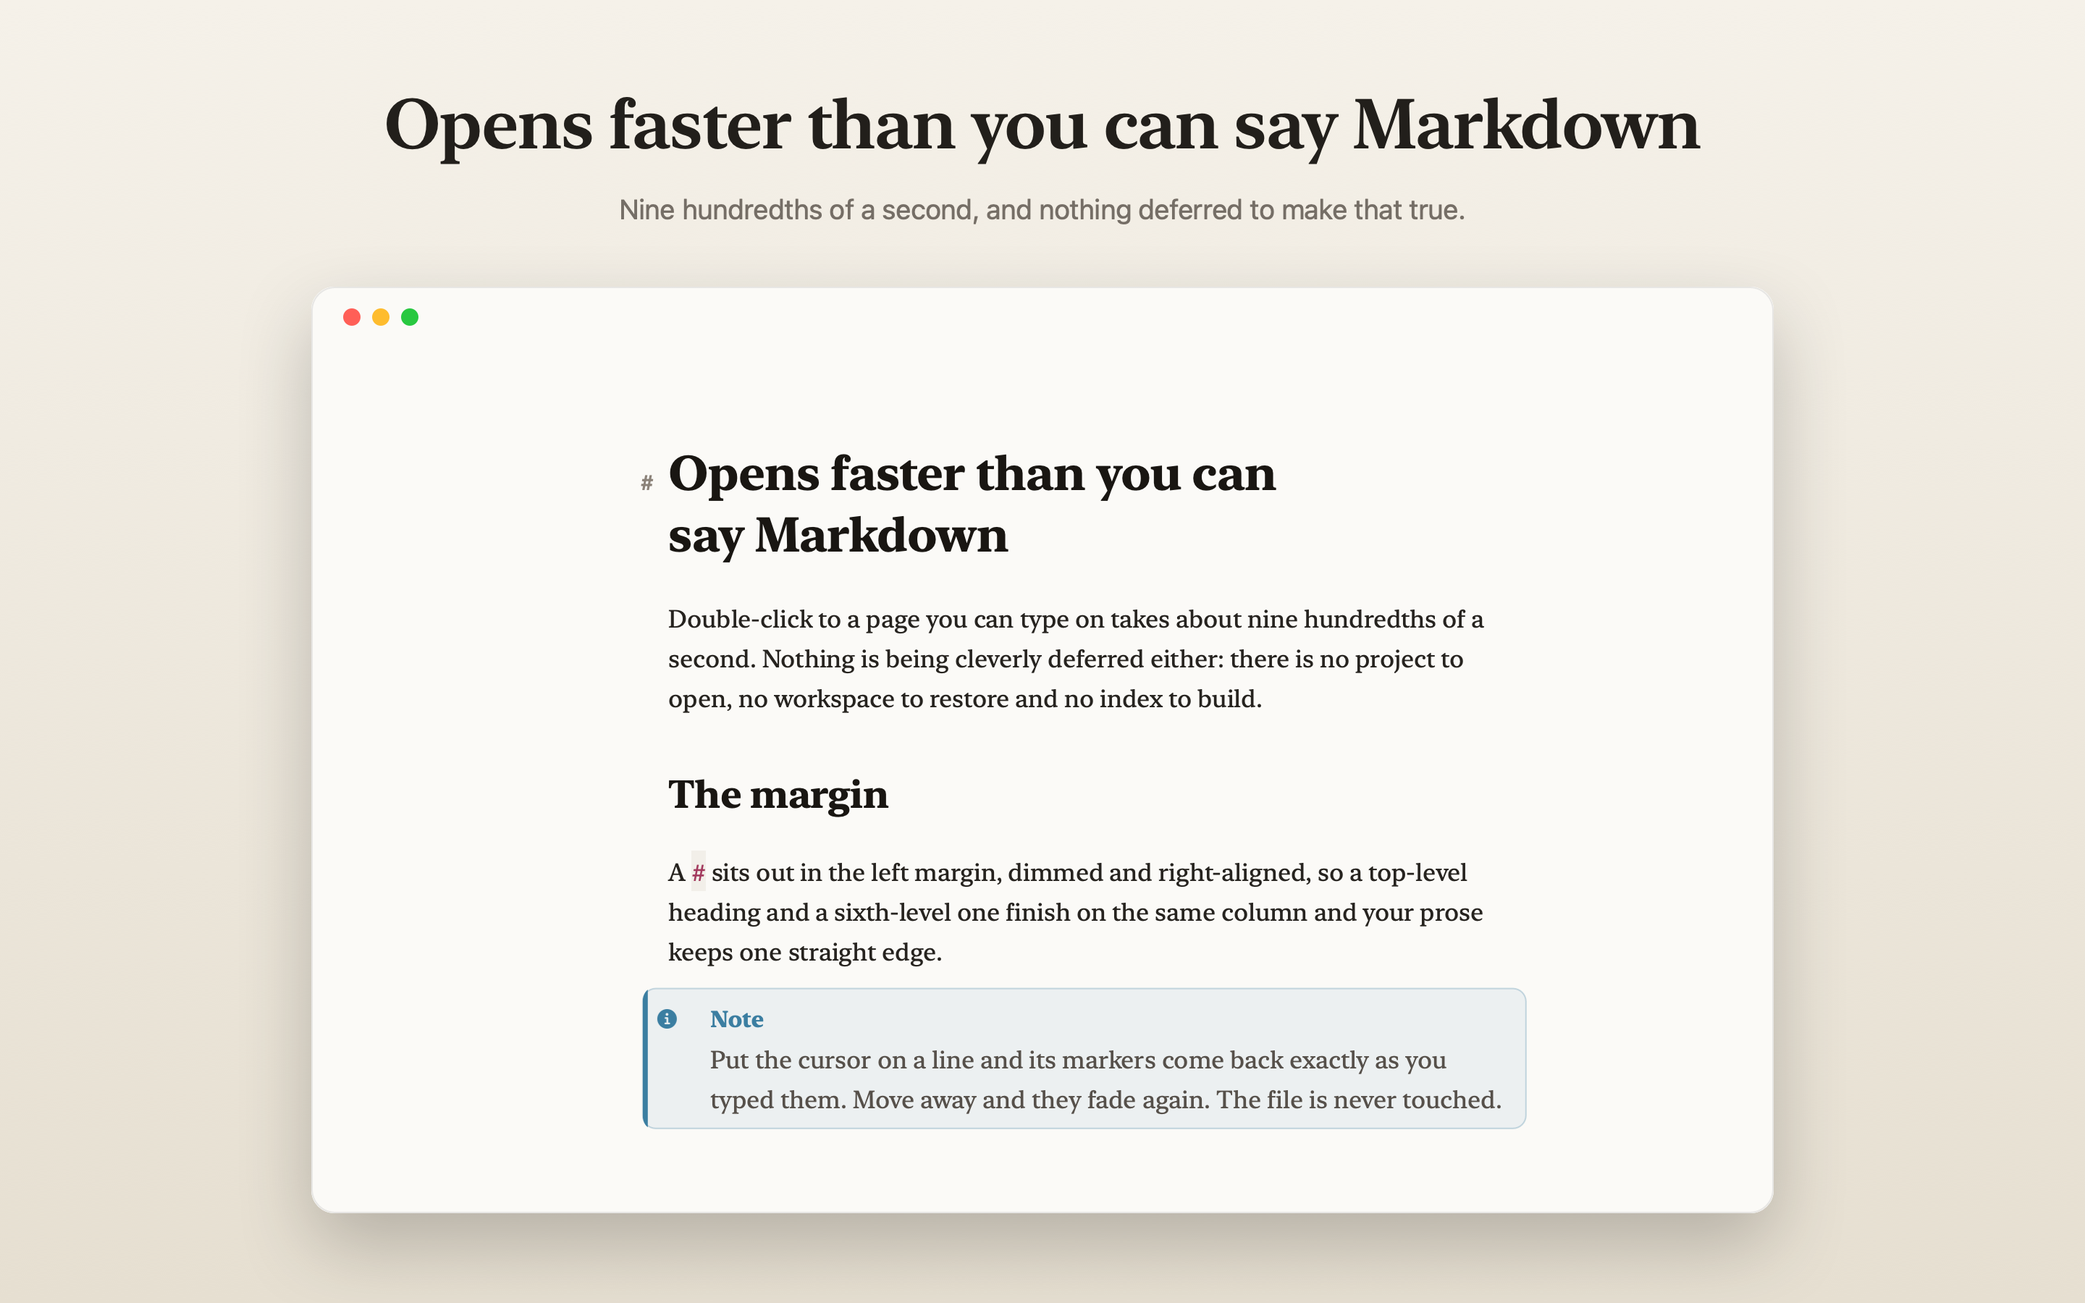
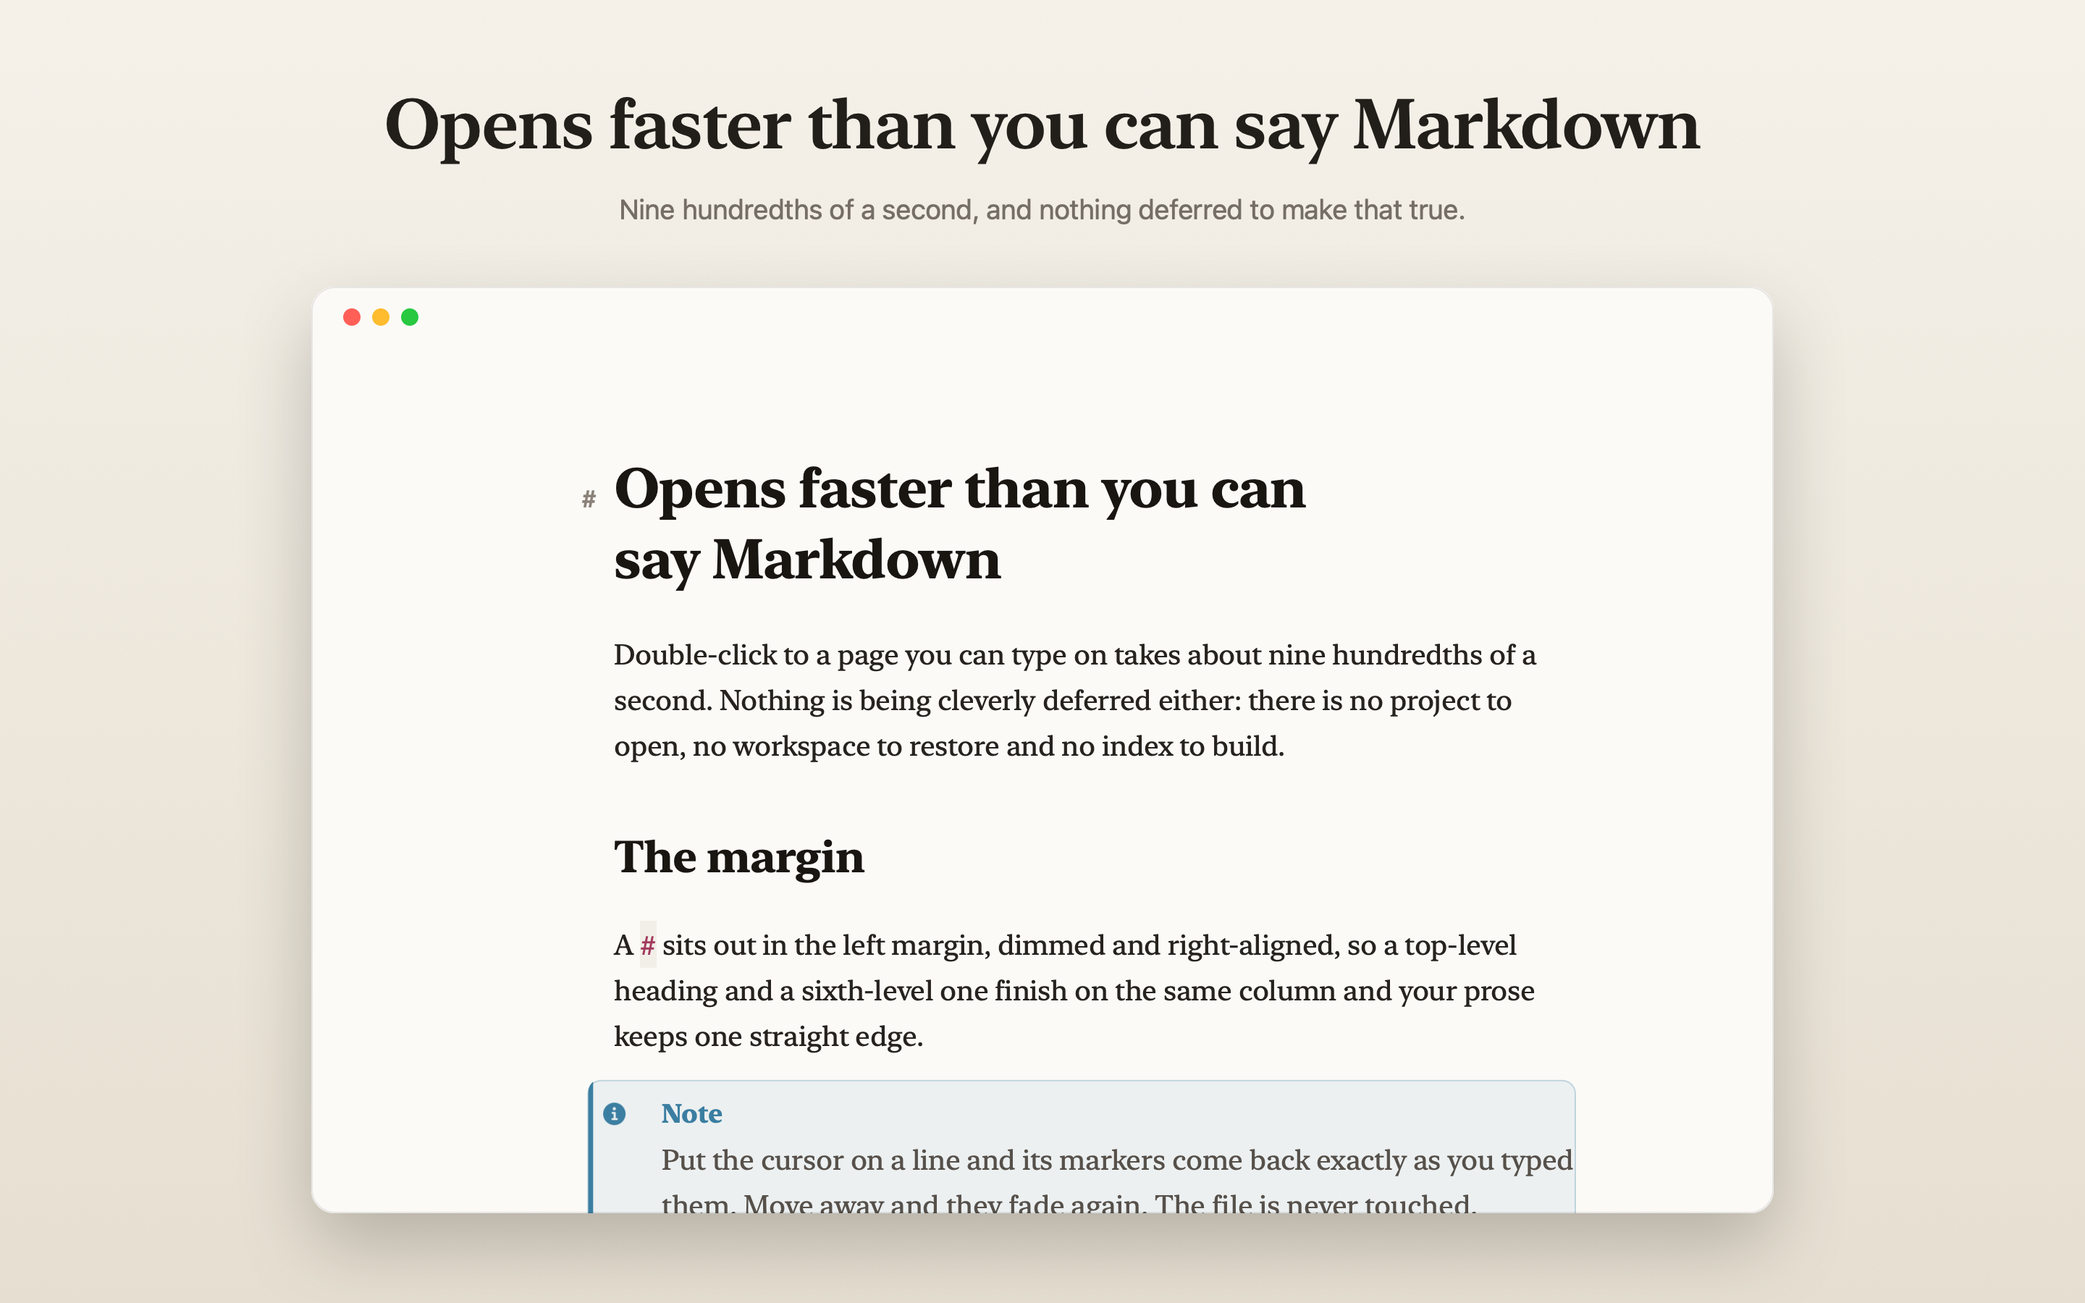
Screenshots that show the app, not five pictures of prose
All five were a window full of text that talked about itself, differing
only in theme and in where the window sat. Nothing showed the sidebar, and
the fifth promised an insert menu the picture did not contain, because
glass renders as nothing off screen and the shot is really a table of
shortcuts.

The documents are now the sort of thing people actually keep: a launch
checklist, a recipe, a travel journal, a standup note. One shot opens a
real folder down the side, rendered by --tree from a real folder rather
than drawn to look like one, and the fifth says what its picture shows.

Both panes are rendered at the size they occupy. A page rendered wide and
squeezed sets its text at a size the app never uses, which is the one
thing a screenshot of a typography app must not do. A window with a
sidebar keeps more of itself on the canvas too: the usual deep bleed cut
the page's text down the middle of a sentence, which reads as a mistake
rather than as a page that carries on.

The store said eight colour schemes. There are six.

Also: the whole command line in the readme, with what it is for. Every one
of those commands draws or measures the real app, so an assistant asked to
write Markdown can render the result and show you the actual page in your
own typeface and colours without opening a window. Each was run before it
was written down, including the exit code on a missing file.

And a note in CLAUDE.md to keep What's New current, since a feature nobody
[…]

Changed region(s): [[0.2812, 0.6222, 0.75, 0.9333], [0.2812, 0.3422, 0.7188, 0.6222]]

diff --git a/scripts/make-shot.swift b/scripts/make-shot.swift
@@ -3,7 +3,7 @@ import AppKit
 // Composes an App Store screenshot: some words, and the rendered page inside a
 // window drawn to look like the real one.
 //
-//   swift scripts/make-shot.swift out.png page.png layout light|dark "Headline" "Sub line"
+//   swift scripts/make-shot.swift out.png page.png layout light|dark "Headline" "Sub line" [sidebar.png]
 //
 //   layout: centre | right | left
 //     centre  window in the middle, words above it
@@ -28,6 +28,10 @@ let layout = arguments[3]
 let dark = arguments[4] == "dark"
 let headline = arguments[5]
 let subline = arguments[6]
+// A folder open down the side of the window. Rendered separately by --tree,
+// because the sidebar is a view and the page is a document, and the app has no
+// one command that draws both.
+let sidebarPath = arguments.count > 7 ? arguments[7] : nil
 
 // Apple takes 2880x1800 for macOS. Everything below is in points at half that.
 let scale: CGFloat = 2
@@ -51,6 +55,30 @@ let bottom = dark ? colour("#0B0C0E") : colour("#E6DFD1")
 guard let page = NSImage(contentsOfFile: pagePath) else {
     FileHandle.standardError.write(Data("cannot read \(pagePath)\n".utf8))
     exit(1)
+}
+// A missing sidebar is a broken shot, not a shot without a sidebar: the point
+// of the picture would be gone and nothing would say so.
+var sidebar: NSImage?
+if let sidebarPath {
+    guard let image = NSImage(contentsOfFile: sidebarPath) else {
+        FileHandle.standardError.write(Data("cannot read \(sidebarPath)\n".utf8))
+        exit(1)
+    }
+    sidebar = image
+}
+/// How wide the sidebar sits in the window, matching the app's own default.
+let sidebarWidth: CGFloat = 232
+
+/// The sidebar's background, taken from the render rather than written down, so
+/// it follows whichever palette the shot was rendered in.
+func sampledSidebarColour(_ image: NSImage) -> NSColor {
+    guard let tiff = image.tiffRepresentation,
+          let rep = NSBitmapImageRep(data: tiff),
+          // Top right, which is past the folder name and above the first row,
+          // so it is the sidebar's own ground and nothing drawn on it.
+          let colour = rep.colorAt(x: rep.pixelsWide - 4, y: 3)
+    else { return dark ? colour("#1B1E23") : colour("#F3F0EA") }
+    return colour.usingColorSpace(.deviceRGB) ?? colour
 }
 
 /// Where the window sits, and where the words sit, for each layout. The window
@@ -81,6 +109,16 @@ default:
         centred: true)
 }
 
+// A window with a sidebar in it is showing two things, so it keeps more of
+// itself on the canvas. The usual deep bleed would cut the page's text down the
+// middle of a sentence, which reads as a mistake rather than as a page that
+// carries on.
+var card = plan.card
+if sidebar != nil {
+    card.size.width = min(card.width, size.width - card.minX)
+}
+let plannedCard = card
+
 guard let rep = NSBitmapImageRep(
     bitmapDataPlanes: nil,
     pixelsWide: Int(size.width * scale), pixelsHigh: Int(size.height * scale),
@@ -98,7 +136,7 @@ NSGradient(starting: top, ending: bottom)?
 
 // --- The window -----------------------------------------------------------
 let radius: CGFloat = 16
-let frame = NSBezierPath(roundedRect: plan.card, xRadius: radius, yRadius: radius)
+let frame = NSBezierPath(roundedRect: plannedCard, xRadius: radius, yRadius: radius)
 
 if let context = NSGraphicsContext.current?.cgContext {
     context.saveGState()
@@ -113,21 +151,45 @@ if let context = NSGraphicsContext.current?.cgContext {
 // The page fills the window. No title bar: there isn't one in the app.
 NSGraphicsContext.saveGraphicsState()
 frame.addClip()
-page.draw(in: plan.card, from: .zero, operation: .sourceOver, fraction: 1,
-          respectFlipped: true, hints: [.interpolation: NSImageInterpolation.high])
+if let sidebar {
+    // Sidebar down the left, page beside it, and a divider between them the way
+    // the split view draws one.
+    let left = NSRect(x: plannedCard.minX, y: plannedCard.minY,
+                      width: sidebarWidth, height: plannedCard.height)
+    let right = NSRect(x: left.maxX, y: plannedCard.minY,
+                       width: plannedCard.width - sidebarWidth, height: plannedCard.height)
+    // The strip the traffic lights sit in. The app runs the sidebar full height
+    // under a transparent title bar, so the lights are over the sidebar's own
+    // colour rather than over the first row of the tree.
+    let lightsStrip: CGFloat = 44
+    sampledSidebarColour(sidebar).setFill()
+    left.fill()
+    let treeArea = NSRect(x: left.minX, y: left.minY,
+                          width: left.width, height: left.height - lightsStrip)
+    sidebar.draw(in: treeArea, from: .zero, operation: .sourceOver, fraction: 1,
+                 respectFlipped: true, hints: [.interpolation: NSImageInterpolation.high])
+    // Rendered at this width already, so drawn one to one.
+    page.draw(in: right, from: .zero, operation: .sourceOver, fraction: 1,
+              respectFlipped: true, hints: [.interpolation: NSImageInterpolation.high])
+    (dark ? NSColor.white.withAlphaComponent(0.10) : NSColor.black.withAlphaComponent(0.09)).setFill()
+    NSRect(x: left.maxX - 0.5, y: left.minY, width: 1, height: left.height).fill()
+} else {
+    page.draw(in: plannedCard, from: .zero, operation: .sourceOver, fraction: 1,
+              respectFlipped: true, hints: [.interpolation: NSImageInterpolation.high])
+}
 NSGraphicsContext.restoreGraphicsState()
 
 // Traffic lights, sitting in the margin the page already leaves at the top.
 for (index, light) in [colour("#FF5F57"), colour("#FEBC2E"), colour("#28C840")].enumerated() {
     light.setFill()
     NSBezierPath(ovalIn: NSRect(
-        x: plan.card.minX + 22 + CGFloat(index) * 20,
-        y: plan.card.maxY - 27, width: 12, height: 12)).fill()
+        x: plannedCard.minX + 22 + CGFloat(index) * 20,
+        y: plannedCard.maxY - 27, width: 12, height: 12)).fill()
 }
 
 // A hairline, so the window reads as an object rather than a hole.
 (dark ? NSColor.white.withAlphaComponent(0.11) : NSColor.black.withAlphaComponent(0.08)).setStroke()
-let edge = NSBezierPath(roundedRect: plan.card.insetBy(dx: 0.5, dy: 0.5),
+let edge = NSBezierPath(roundedRect: plannedCard.insetBy(dx: 0.5, dy: 0.5),
                         xRadius: radius, yRadius: radius)
 edge.lineWidth = 1
 edge.stroke()

diff --git a/README.md b/README.md
@@ -145,6 +145,60 @@ the size the rest of the code is set at. Rows never wrap: a wrapped row would
 put its cells under the wrong columns, so a row that still will not fit is
 truncated instead.
 
+## The command line
+
+Kvill's binary does more than open windows. Every one of these draws or measures
+the real app rather than a description of it, which is what makes them worth
+pointing something else at.
+
+    /Applications/Kvill.app/Contents/MacOS/Kvill --render notes.md out.png
+
+**These are useful to an assistant working alongside you.** If you have asked an
+agent to write or edit Markdown, it can render the result as an image and show
+you what the page will actually look like, in the typeface and colours you read
+in, without opening a window or touching what you have on screen. It can also
+draw a folder's tree, or a specimen sheet of the typefaces, to ask which you
+want. A render is a read: it puts every display setting back afterwards, in
+memory and on disk, so taking a picture never changes your editor.
+
+| Command | What it does |
+| --- | --- |
+| `--render in.md out.png` | Draws a page headlessly and writes a PNG |
+| `--tree folder out.png` | Draws the folder sidebar for a real folder |
+| `--specimens out.png` | Draws the typeface, size and width specimens |
+| `--benchmark file.md` | Startup, per-keystroke and second-window timings |
+| `--selftest` | Runs every runtime check and exits non-zero on failure |
+| `--login-item [status\|on\|off]` | Reads or sets what macOS thinks of the login item |
+| `--demo` | Drives the app through a scripted demonstration |
+
+### Options for `--render`
+
+| Option | Values | Default |
+| --- | --- | --- |
+| `--theme` | `paper`, `ink`, `sepia`, `nord`, `contrast-light`, `contrast-dark` | your current one |
+| `--typography` | `editorial`, `grotesk`, `contrast`, `typewriter`, `soft` | your current one |
+| `--size` | `small`, `medium`, `large` | your current one |
+| `--geometry` | `WIDTHxHEIGHT` in points, e.g. `1010x708` | the window's size |
+| `--scale` | a number, `2` for Retina | `2` |
+| `--offset` | points to scroll down before drawing | `0` |
+
+`--tree` takes `--theme` and `--size WxH`.
+
+### Worth knowing before pointing a script at it
+
+**Build without the sandbox for any of these.** The App Sandbox refuses to read
+a path handed to the app on the command line, so `QUILL_SANDBOX=0 ./build.sh`
+is required for a development build. The copy from the App Store is sandboxed
+and will not read your file.
+
+**A render draws the page, not the interface.** The floating chrome is glass,
+and glass renders as nothing in a window that was never on screen, so an options
+panel comes out empty. `--specimens` draws the parts of it that are ordinary
+views, and `--selftest` interrogates the rest.
+
+**Errors go to stderr and the exit code means something.** Nothing prints a
+plausible-looking result when it failed to read its input.
+
 ## Known limits
 
 - Images referenced beside a document need the folder to have been opened at

diff --git a/store/shot-2.md b/store/shot-2.md
@@ -1,19 +1,18 @@
-## Written to be read
+# Launch checklist
 
-Prose is set on a measure that stays comfortable, in a face chosen for long stretches rather than for screenshots, with the line height and the spacing that go with it.
+Target date: **1 September**. Everything below has to be done or deliberately dropped before then, and dropped counts as done if it is written down.
 
-```swift
-// Code keeps its own panel and its own face.
-func greet(_ name: String) -> String {
-    let count = 42
-    return "Hello, \(name) and \(count)"
-}
-```
+## Engineering
 
-Tables square themselves up as you leave them, so the file stays tidy in a diff and on GitHub, not only here.
+- [x] Migrate the staging database to the new schema
+- [x] Set up error reporting on the production project
+- [ ] Add rate limiting to the public endpoints
+- [ ] Load test at three times expected peak traffic
 
-| Feature     | Shortcut    | Notes                          |
-| ----------- | ----------- | ------------------------------ |
-| Bold        | Cmd B       | Wraps the word under the caret |
-| Insert menu | /           | Everything, without the mouse  |
-| Focus mode  | Shift Cmd F | Dims all but this paragraph    |
+> [!NOTE] The rollback runbook is the one thing nobody has written yet. It is also the only thing that matters at two in the morning.
+
+## Design
+
+- [x] Final pass on the onboarding flow
+- [ ] Dark mode audit across all screens
+- [ ] Export the icon set at 1x, 2x and 3x

diff --git a/CLAUDE.md b/CLAUDE.md
@@ -36,6 +36,26 @@ main claim, not just in a benchmark.
 | `node store/push-review-notes.mjs` | Fills App Review Information from `store/review-notes.md`; add `--apply` to send |
 | `node store/push-testflight.mjs` | Sets up TestFlight **internal** testing from `store/testflight.md`; add `--apply` to send |
 
+## What's new, in the About window
+
+`Resources/ReleaseNotes.md` is what the About window's right column shows, and
+it ships inside the bundle. **Add an entry whenever a feature lands**, in the
+same sitting, because a feature nobody is told about may as well not have
+shipped and nobody reconstructs this list later.
+
+The format is fixed and the checks enforce it:
+
+    **Feature name** - 18 August 2026
+    Two lines at most, in plain language, about what it does for someone.
+    Not how it works.
+
+Newest first. The date is the day it landed, taken from the commit rather than
+guessed. `--selftest` fails if an entry has no date, if one runs past two lines,
+or if the file is missing from the built app.
+
+It is a list of features and dates on purpose, not a list of version numbers. A
+version number says nothing to anyone who was not watching the version numbers.
+
 ## Releasing
 
 Bump `CFBundleVersion` in `Resources/Info.plist` (Apple refuses a repeated build

diff --git a/store/shot-5.md b/store/shot-5.md
@@ -1,15 +1,22 @@
-## Everything, without the mouse
+# Standup, Thursday
 
-Press / anywhere and an insert menu opens under the cursor, filtering as you type. A heading, a table, a callout or a code block is three keystrokes away.
+Kept short on purpose. Anything that needs a discussion gets a line here and a meeting later, never the other way around.
 
-| Do this        | Press        |
-| -------------- | ------------ |
-| Insert menu    | /            |
-| Bold           | Cmd B        |
-| Link           | Cmd K        |
-| Heading 1 to 6 | Cmd 1 to 6   |
-| Task list      | Shift Cmd 9  |
-| Focus mode     | Shift Cmd F  |
-| Hide interface | Cmd .        |
+## Yesterday
 
-Tables square their own columns up as you leave them, so the file stays tidy in a diff and on GitHub, not only here.
+Finished the retry logic in the sync worker. It now backs off exponentially and gives up after an hour instead of hammering a dead endpoint all night.
+
+```swift
+// Every command has a key. The insert menu opens on /
+func delay(for attempt: Int) -> Duration {
+    .seconds(min(3600, 1 << attempt))
+}
+```
+
+## Today
+
+Writing the migration note. Blocked on nothing.
+
+## In the way
+
+The staging certificate expires on Sunday and nobody owns renewing it.

diff --git a/store/shot-4.md b/store/shot-4.md
@@ -1,11 +1,13 @@
-# Eight colour schemes and five typefaces
+# Iceland, day three
 
-Each one comes with the line height, measure and spacing that suit it, rather than one set of numbers stretched over everything.
+Left Vík before it was light and drove east with the heater on full. The road runs between the sea and the glacier for an hour with nothing else in it, and then the sand turns black and stays black for forty kilometres.
 
-## Reading a long document
+## Jökulsárlón
 
-Focus mode dims everything except the paragraph you are working in.
+Icebergs come down the lagoon at walking pace and go out with the tide. They are blue where they have rolled and the ice underneath has never seen the sun.
 
-> A blockquote keeps its bar out in the margin, and quiet text stays quiet.
+> A seal surfaced three metres away, looked at us for a while, and went back down. Neither of us got a photograph and it was better that way.
 
-Typewriter scrolling holds the line you are writing at eye level instead of leaving it at the bottom edge of the window.
+## Tomorrow
+
+Höfn, then the fjords. Six hours if the pass is open, nine if it is not.

diff --git a/store/shot-3.md b/store/shot-3.md
@@ -1,12 +1,14 @@
-# Just edit local files
+# Carbonara
 
-Markdown on your own disk, changed in place. Nothing to sign into, no library to import into, and no copy kept anywhere else.
+Serves two, and it is finished in the time the pasta takes, so read it once before starting rather than halfway through.
 
-## It stays readable
+| | |
+| --- | --- |
+| Guanciale | 120 g, cut into short batons |
+| Pecorino | 60 g, grated fine |
+| Egg yolks | 4, plus one whole egg |
+| Spaghetti | 200 g |
 
-The file is exactly what you typed. Every other editor you own can open it, and so can `cat`.
+Render the guanciale slowly in a cold dry pan until the fat runs clear and the edges catch. Beat the yolks with the pecorino and a great deal of black pepper until it is a stiff paste.
 
-> [!TIP]
-> There is no analytics either, and that part is not a promise: the app ships without a network entitlement, so macOS will not let it connect at all.
-
-Free, nothing to buy, source on GitHub.
+> [!IMPORTANT] Off the heat before the eggs go in. The residual heat in the pan is enough, and the flame is what turns it into scrambled eggs.

diff --git a/store/notes/Launch checklist.md b/store/notes/Launch checklist.md
@@ -1,0 +1,1 @@
+# Launch checklist

diff --git a/store/notes/Rent agreement.md b/store/notes/Rent agreement.md
@@ -1,0 +1,1 @@
+# Rent agreement

diff --git a/store/notes/Carbonara.md b/store/notes/Carbonara.md
@@ -1,0 +1,1 @@
+# Carbonara

diff --git a/store/notes/Iceland.md b/store/notes/Iceland.md
@@ -1,0 +1,1 @@
+# Iceland

diff --git a/store/notes/Standup.md b/store/notes/Standup.md
@@ -1,0 +1,1 @@
+# Standup
